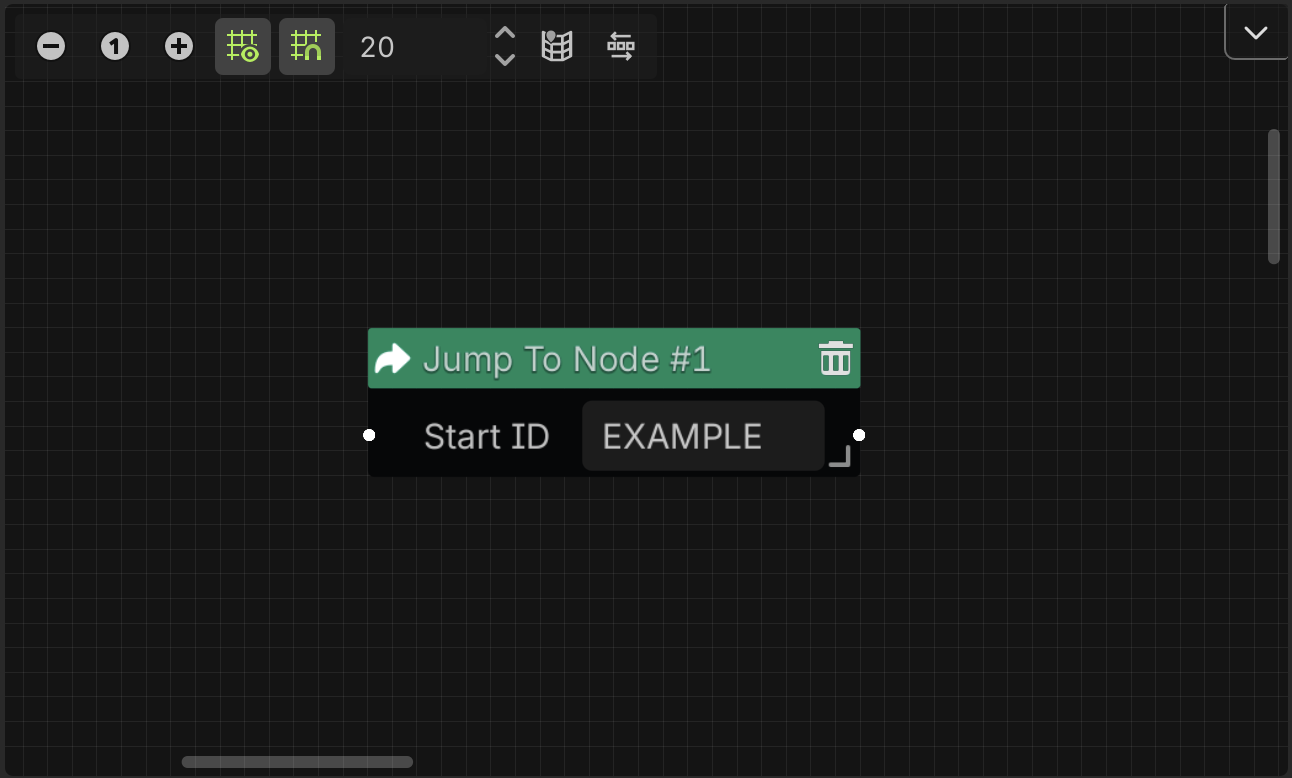
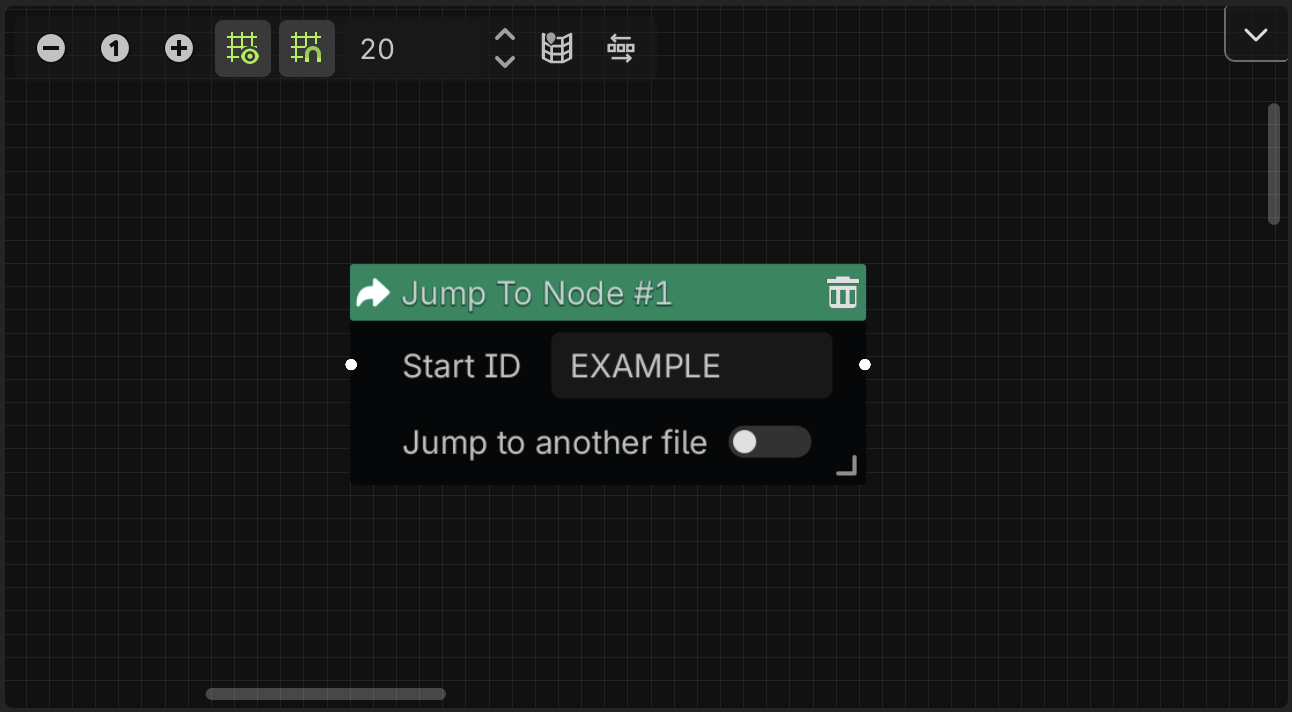
Jump to node updated

diff --git a/docs/dialogues/event-nodes.md b/docs/dialogues/event-nodes.md
@@ -133,6 +133,14 @@ This node allows you to **jump to another dialogue tree**. You need to specify t
 
 ![Jump To Node](img/event-nodes/jump-to-node.png)
 
+:::important
+
+You can also **jump to a dialogue tree from another dialogue file**. For that, you need to check the `Jump to another file` toggle, assign the dialogue file and then specify the `ID` of the dialogue tree you want to jump to.
+
+![Jump to another dialog](img/event-nodes/jump-to-node-another-dialog.png)
+
+:::
+
 If the node has an output connection, the dialogue system will **return to the current dialogue tree after finishing the jumped dialogue tree**, and continue from the connected node.
 
 Otherwise, if you don't connect any node to the output slot, the dialogue system will not return to the current dialogue tree after finishing the jumped dialogue tree.

diff --git a/versioned_docs/version-1.2.0/dialogues/event-nodes.md b/versioned_docs/version-1.2.0/dialogues/event-nodes.md
@@ -133,6 +133,14 @@ This node allows you to **jump to another dialogue tree**. You need to specify t
 
 ![Jump To Node](img/event-nodes/jump-to-node.png)
 
+:::important
+
+You can also **jump to a dialogue tree from another dialogue file**. For that, you need to check the `Jump to another file` toggle, assign the dialogue file and then specify the `ID` of the dialogue tree you want to jump to.
+
+![Jump to another dialog](img/event-nodes/jump-to-node-another-dialog.png)
+
+:::
+
 If the node has an output connection, the dialogue system will **return to the current dialogue tree after finishing the jumped dialogue tree**, and continue from the connected node.
 
 Otherwise, if you don't connect any node to the output slot, the dialogue system will not return to the current dialogue tree after finishing the jumped dialogue tree.
